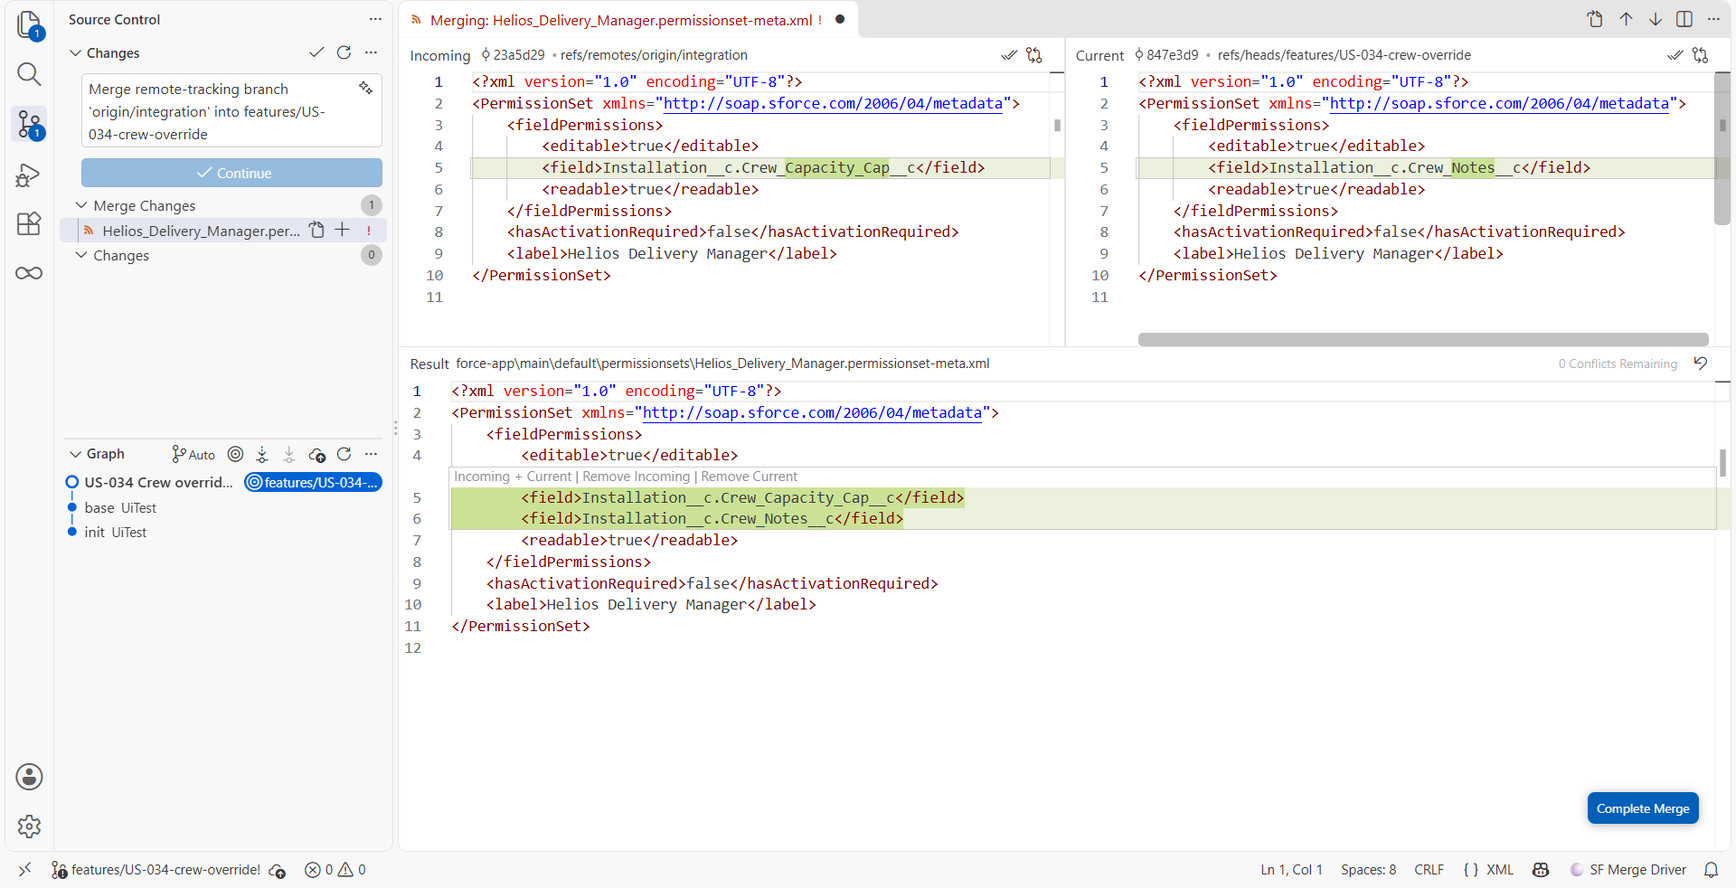
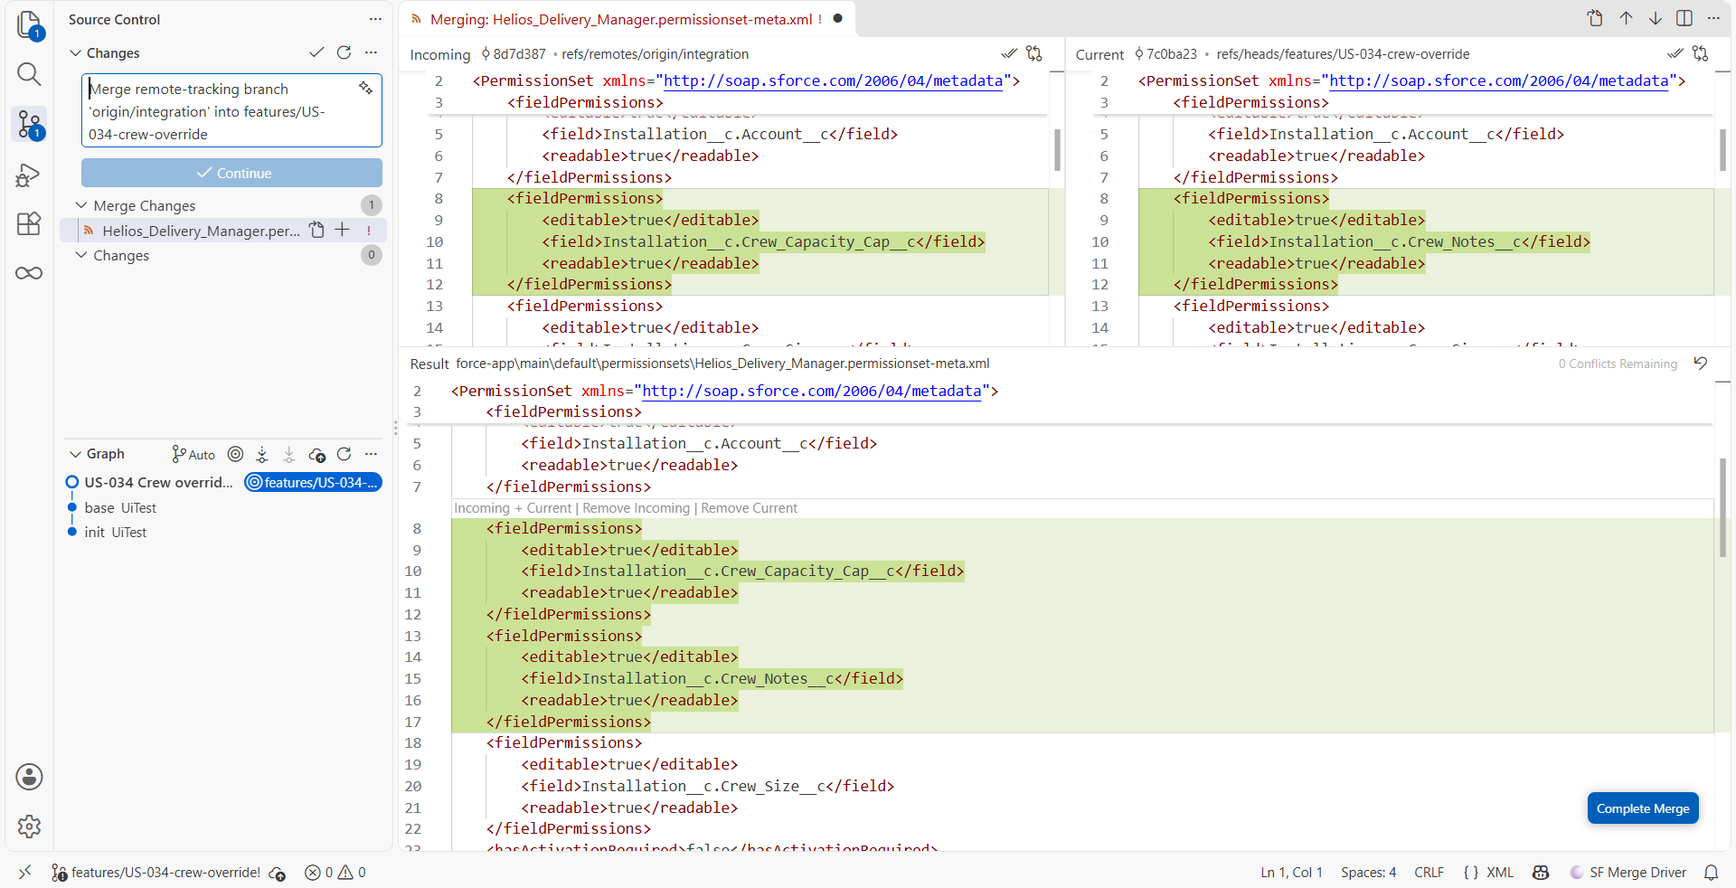
fix: what the learners' discussions found (2026-10-26) (#304)
* fix: what the learners' discussions found (2026-10-26)

* fix(labs): check the SF Merge Driver is off before Labs 2.7 and 3.10

diff --git a/labs/fr/level-2-contributor-advanced/2-7-resolve-a-git-merge-conflict.md b/labs/fr/level-2-contributor-advanced/2-7-resolve-a-git-merge-conflict.md
@@ -5,7 +5,7 @@ description: "Une collègue a mergé en premier sur le même flow et le même pe
 level: 2
 lab: 7
 lang: fr
-source_rev: "b1467f03acb9c4e1c409f231225075b21f2d8555"
+source_rev: "7bc30991204d61ef34021d66c5575d254d6032e6"
 screenshots:
   - annotated/salesforce/flow-builder-assign-crew
   - annotated/salesforce/flow-builder-assign-crew-full
@@ -49,6 +49,9 @@ flow et le même permission set que vous. Elle a mergé ce matin. Pas vous.
 
 - [ ] [Lab 2.6](2-6-permission-sets-and-profiles.md) terminé et mergé
 - [ ] Rien en attente dans le panneau **Source Control** auquel vous teniez encore
+- [ ] **SF Merge Driver**, en bas à droite de VS Code, affiche un rond gris : le driver est éteint.
+      Si le rond est vert, cliquez dessus pour l'éteindre, sinon il résout les conflits dont parle
+      ce lab avant que vous ne les voyiez
 
 ## Les étapes
 
@@ -268,31 +271,22 @@ Celui-ci est mécanique, et vous pouvez trancher sans comprendre le XML : les de
 place. Mariia a accordé un champ, vous en avez accordé un autre, et un permission set en contient
 autant qu'il en faut.
 
-#### À faire : faire deux blocs du résultat
+#### À faire : lire le résultat, puis terminer le merge
 
-1. Lisez maintenant le **Result** **(1)** avant toute chose
+1. Lisez le **Result** **(1)** avant toute chose : il contient deux blocs `<fieldPermissions>`
+   complets, le `Crew_Capacity_Cap__c` de Mariia en premier et votre `Crew_Notes__c` en second
 
    ![L'éditeur de merge après avoir accepté les deux côtés, avec Complete Merge](../../_assets/annotated/vscode/git-merge-editor-accepted--result.png)
 
-2. Tapez-le dans le volet **Result** : après la première ligne `<field>`, ajoutez les quatre lignes
-   qui ferment le premier bloc et ouvrent le second. Copiez-les d'ici : on ne demande à personne
-   d'écrire du XML de mémoire
+2. Cliquez sur **Complete Merge** **(2)**
 
-   ```xml title="À modifier dans le fichier"
-           <readable>true</readable>
-       </fieldPermissions>
-       <fieldPermissions>
-           <editable>true</editable>
-   ```
+#### Pourquoi le lire
 
-3. Cliquez ensuite sur **Complete Merge** **(2)**
-
-#### Pourquoi deux blocs
-
-L'éditeur a gardé les deux lignes, et les a mises dans le même bloc : un seul `<fieldPermissions>`
-avec deux lignes `<field>`, ce que Salesforce refuse. Git merge des lignes, pas des permissions. Vous
-voulez deux blocs complets, un par champ, le `Crew_Capacity_Cap__c` de Mariia en premier et votre
-`Crew_Notes__c` en second. La section sous le capot ci-dessous montre le résultat que vous visez.
+Chacun de vous a ajouté un bloc entier, et l'éditeur de merge compare chaque côté à la version dont
+vous êtes partis tous les deux : garder les deux donne donc deux blocs, sans rien taper. Lisez-le
+quand même : un bloc `<fieldPermissions>` nomme un seul champ, et Salesforce refuse un bloc avec deux
+lignes `<field>`. Si votre **Result** ressemble à cela, **En cas de problème** à la fin de ce lab
+donne la correction.
 
 Prendre les deux est la bonne réponse pour presque tous les conflits de permission set. Choisir
 un côté est la façon dont la permission d'un collègue disparaît en silence, sans que personne s'en
@@ -300,8 +294,8 @@ aperçoive avant que quelqu'un ne voie plus un champ.
 
 <details markdown="1"><summary>Sous le capot : à quoi ressemblait vraiment le conflit</summary>
 
-Git entre en conflit sur des lignes, pas sur du XML : les marqueurs ont donc atterri à l'intérieur
-d'un bloc plutôt qu'autour de deux :
+Git entre en conflit sur des lignes, pas sur du XML : les marqueurs qu'il écrit dans le fichier ont
+donc atterri à l'intérieur d'un bloc plutôt qu'autour de deux :
 
 ```xml title="Résultat"
     <fieldPermissions>
@@ -315,10 +309,11 @@ d'un bloc plutôt qu'autour de deux :
     </fieldPermissions>
 ```
 
-Une fois les quatre lignes ajoutées, le résultat contient deux blocs complets, par ordre
-alphabétique, ce qui est de toute façon la façon dont Salesforce les écrit :
+L'éditeur de merge ne vous montre pas ces marqueurs. Il compare chaque côté à la version dont vous
+êtes partis tous les deux, trouve un bloc entier ajouté de chaque côté, et garder les deux conserve
+les deux blocs, par ordre alphabétique, ce qui est de toute façon la façon dont Salesforce les écrit :
 
-```xml title="À modifier dans le fichier"
+```xml title="Résultat"
     <fieldPermissions>
         <editable>true</editable>
         <field>Installation__c.Crew_Capacity_Cap__c</field>
@@ -477,6 +472,18 @@ les éléments de même nature : toutes les affectations, puis toutes les décis
 déposé un élément conservé entre deux blocs d'une autre nature, remontez-le auprès des siens. L'ordre
 à l'intérieur de chaque groupe n'a pas d'importance, le groupement si.
 
+**Le Result du permission set montre un seul bloc avec deux lignes `<field>`.**
+Avant de cliquer sur **Complete Merge**, tapez dans le volet **Result** : après la première ligne
+`<field>`, ajoutez les quatre lignes qui ferment le premier bloc et ouvrent le second. Copiez-les
+d'ici :
+
+```xml title="À modifier dans le fichier"
+        <readable>true</readable>
+    </fieldPermissions>
+    <fieldPermissions>
+        <editable>true</editable>
+```
+
 **`Element field is duplicated at this location in type PermissionSetFieldPermissions`.**
 Vous avez gardé les deux côtés à l'intérieur d'une seule autorisation au lieu de garder les deux
 autorisations. Un bloc `<fieldPermissions>` nomme un champ : la correction est deux blocs, pas un
@@ -485,6 +492,13 @@ bloc avec deux lignes `<field>`.
 **Le flow refuse de se déployer après le merge : "duplicate element name".**
 Vous avez gardé les deux côtés d'un élément qui ne peut exister qu'une fois. Les noms d'éléments de
 flow sont uniques. Renommez-en un ou supprimez-en un.
+
+**Merge Changes ne liste pas le permission set, ou aucun fichier.**
+Le SF Merge Driver les a mergés pour vous : son élément en bas à droite de VS Code affiche un rond
+vert. Ouvrez le permission set et vérifiez qu'il contient les deux blocs de l'étape 5. Si le flow a
+été mergé aussi, ouvrez-le dans Flow Builder et vérifiez-le par rapport à l'étape 6 : le driver
+merge le XML, il ne décide pas quelle règle l'emporte. Cliquez ensuite sur l'élément pour éteindre
+le driver, avant que le [Lab 3.10](../level-3-release-manager/3-10-promote-a-subset-with-promotion-branches.md) n'ait besoin des conflits lui aussi.
 
 **Vous avez perdu votre modification entièrement.**
 Vous avez accepté le côté de Mariia sur tout le fichier. Dans le panneau **Source Control**, menu

diff --git a/labs/en/level-2-contributor-advanced/2-7-resolve-a-git-merge-conflict.md b/labs/en/level-2-contributor-advanced/2-7-resolve-a-git-merge-conflict.md
@@ -48,6 +48,9 @@ flow and the same permission set as you. She merged this morning. You did not.
 
 - [ ] [Lab 2.6](2-6-permission-sets-and-profiles.md) finished and merged
 - [ ] Nothing waiting in the **Source Control** panel that you still care about
+- [ ] **SF Merge Driver**, at the bottom right of VS Code, shows a grey circle: the driver is off.
+      If the circle is green, click it to turn the driver off, or it solves the conflicts this lab
+      is about before you see them
 
 ## Steps
 
@@ -258,37 +261,29 @@ This one is mechanical, and you can decide it without understanding the XML: bot
 belong. Mariia granted one field, you granted another, and a permission set holds as many as it
 needs.
 
-#### Do: make two blocks of the result
+#### Do: read the result, then complete the merge
 
-1. Now read the **Result** **(1)** before anything else
+1. Read the **Result** **(1)** before anything else: it holds two complete `<fieldPermissions>`
+   blocks, Mariia's `Crew_Capacity_Cap__c` first and your `Crew_Notes__c` second
 
    ![The merge editor after both sides were accepted, with Complete Merge](../../_assets/annotated/vscode/git-merge-editor-accepted--result.png)
 
-2. Type it in the **Result** pane: after the first `<field>` line, add the four lines that close the
-   first block and open the second. Copy them from here: nobody is asked to write XML from memory
+2. Click **Complete Merge** **(2)**
 
-   ```xml title="Edit this file"
-           <readable>true</readable>
-       </fieldPermissions>
-       <fieldPermissions>
-           <editable>true</editable>
-   ```
+#### Why read it
 
-3. Then click **Complete Merge** **(2)**
-
-#### Why two blocks
-
-The editor kept both lines, and put them in the same block: one `<fieldPermissions>` with two
-`<field>` lines, which Salesforce refuses. Git merges lines, not permissions. You want two complete
-blocks, one per field, Mariia's `Crew_Capacity_Cap__c` first and your `Crew_Notes__c` second. The
-under the hood section below shows the result you are aiming at.
+Each of you added a whole block, and the merge editor compares each side with the version you both
+started from, so taking both gives two blocks with nothing to type. Read it anyway: one
+`<fieldPermissions>` block names one field, and Salesforce refuses a block with two `<field>` lines.
+If your **Result** looks like that, **If it goes wrong** at the end of this lab has the fix.
 
 Take both is the right answer for almost every permission set conflict. Choosing one side is how
 a teammate's permission quietly disappears, and nobody notices until somebody cannot see a field.
 
 <details markdown="1"><summary>Under the hood: what the conflict actually looked like</summary>
 
-Git conflicts on lines, not on XML, so the markers landed inside one block rather than around two:
+Git conflicts on lines, not on XML, so the markers it writes in the file landed inside one block
+rather than around two:
 
 ```xml title="Output"
     <fieldPermissions>
@@ -302,10 +297,11 @@ Git conflicts on lines, not on XML, so the markers landed inside one block rathe
     </fieldPermissions>
 ```
 
-Once you added the four lines, the result holds two complete blocks, in alphabetical order, which is
-how Salesforce writes them anyway:
+The merge editor does not show you those markers. It compares each side with the version you both
+started from, finds a whole block added on each side, and taking both keeps the two blocks, in
+alphabetical order, which is how Salesforce writes them anyway:
 
-```xml title="Edit this file"
+```xml title="Output"
     <fieldPermissions>
         <editable>true</editable>
         <field>Installation__c.Crew_Capacity_Cap__c</field>
@@ -457,6 +453,17 @@ the same kind together: all the assignments, then all the decisions. If your mer
 element between two blocks of another kind, move it back up next to its own kind. The order inside
 each group does not matter, the grouping does.
 
+**The Result of the permission set shows one block with two `<field>` lines.**
+Before you click **Complete Merge**, type in the **Result** pane: after the first `<field>` line, add
+the four lines that close the first block and open the second. Copy them from here:
+
+```xml title="Edit this file"
+        <readable>true</readable>
+    </fieldPermissions>
+    <fieldPermissions>
+        <editable>true</editable>
+```
+
 **`Element field is duplicated at this location in type PermissionSetFieldPermissions`.**
 You kept both sides inside a single grant instead of keeping both grants. One `<fieldPermissions>`
 block names one field: the fix is two blocks, not one block with two `<field>` lines.
@@ -464,6 +471,13 @@ block names one field: the fix is two blocks, not one block with two `<field>` l
 **The flow will not deploy after the merge: "duplicate element name".**
 You kept both sides of an element that can only exist once. Flow element names are unique. Rename or
 remove one.
+
+**Merge Changes lists no permission set, or no file at all.**
+The SF Merge Driver merged them for you: its item at the bottom right of VS Code shows a green
+circle. Open the permission set and check that it holds the two blocks of step 5. If the flow merged
+too, open it in Flow Builder and check it against step 6: the driver merges the XML, it does not
+decide which rule wins. Then click the item to turn the driver off, before [Lab 3.10](../level-3-release-manager/3-10-promote-a-subset-with-promotion-branches.md) needs the
+conflicts too.
 
 **You lost your change entirely.**
 You accepted Mariia's side on the whole file. In the **Source Control** panel, the **...** menu >

diff --git a/labs/fr/level-3-release-manager/3-10-promote-a-subset-with-promotion-branches.md b/labs/fr/level-3-release-manager/3-10-promote-a-subset-with-promotion-branches.md
@@ -5,7 +5,7 @@ description: "Transportez trois User Stories approuvées sur cinq de uat vers pr
 level: 3
 lab: 10
 lang: fr
-source_rev: "73533e1d3e22c99792e216cba82395b32b7aa2f9"
+source_rev: "4d39cb6d018606d8238135e3d8bf9f722d0c97c5"
 screenshots:
   - annotated/vscode/welcome-custom-menu-3
   - annotated/vscode/pipeline-config-danger--promotion-branches
@@ -74,6 +74,9 @@ telle qu'elle est, US-058 et US-060 comprises.
 - [ ] `enablePromotionBranches` et `allowedPromotionSteps` publiés au
       [Lab 3.1](3-1-configure-the-pipeline-up-to-production.md), et remontés jusqu'à `preprod` par les promotions des Labs 3.5 et 3.6
 - [ ] Rien en attente dans le panneau **Source Control** qui vous tienne encore à cœur
+- [ ] **SF Merge Driver**, en bas à droite de VS Code, affiche un rond gris : le driver est éteint.
+      Si le rond est vert, cliquez dessus pour l'éteindre, sinon il résout les conflits de
+      l'étape 4 avant que vous ne les voyiez
 
 ## Les étapes
 
@@ -852,11 +855,13 @@ et c'est volontaire.
 valeur par défaut que sfdx-hardis accepte d'inventer : entre quelles branches un release manager peut
 promouvoir est une décision sur votre pipeline.
 
-**Le cherry-pick d'US-059 n'est pas entré en conflit.**
-Quelque chose l'a résolu pour vous, en général le plugin `sf-git-merge-driver` s'il est installé sur
-votre machine. Ouvrez l'onglet **Files changed** de la Pull Request et cherchez `Warranty_Years__c`
+**Le cherry-pick d'US-059 n'est pas entré en conflit, ou sur un seul fichier.**
+Quelque chose l'a résolu pour vous, en général le SF Merge Driver : son élément en bas à droite de
+VS Code affiche un rond vert, et un clic l'éteint. Ouvrez l'onglet **Files changed** de la Pull Request et cherchez `Warranty_Years__c`
 dans la présentation de page et le permission set. S'il a voyagé, le déploiement échoue sur un champ
-que `preprod` n'a pas : retirez-le sur la promotion branch comme l'étape 6 le fait, et poussez.
+que `preprod` n'a pas : retirez-le sur la promotion branch comme l'étape 6 le fait, et poussez. S'il
+n'a pas voyagé, la promotion est juste telle quelle, et le retrofit de l'étape 9 peut quand même
+s'arrêter sur les deux fichiers.
 
 **Il n'y a pas de liens Accept au-dessus du bloc de conflit.**
 Le fichier est ouvert en aperçu ou le bloc est hors de vue. Cliquez dans le fichier, allez à la

diff --git a/labs/en/level-3-release-manager/3-10-promote-a-subset-with-promotion-branches.md b/labs/en/level-3-release-manager/3-10-promote-a-subset-with-promotion-branches.md
@@ -71,6 +71,9 @@ included.
 - [ ] `enablePromotionBranches` and `allowedPromotionSteps` published in
       [Lab 3.1](3-1-configure-the-pipeline-up-to-production.md), and carried up to `preprod` by the promotions of Labs 3.5 and 3.6
 - [ ] Nothing waiting in the **Source Control** panel that you still care about
+- [ ] **SF Merge Driver**, at the bottom right of VS Code, shows a grey circle: the driver is off.
+      If the circle is green, click it to turn the driver off, or it solves the conflicts of step 4
+      before you see them
 
 ## Steps
 
@@ -823,11 +826,12 @@ branch the pipeline does not merge into opens nothing, on purpose.
 sfdx-hardis is willing to invent: which branches a release manager may promote between is a decision
 about your pipeline.
 
-**The cherry-pick of US-059 did not conflict.**
-Something solved it for you, usually the `sf-git-merge-driver` plugin if it is installed on your
-machine. Open the **Files changed** tab of the Pull Request and look for `Warranty_Years__c` in the
+**The cherry-pick of US-059 did not conflict, or conflicted on one file only.**
+Something solved it for you, usually the SF Merge Driver: its item at the bottom right of VS Code
+shows a green circle, and a click turns it off. Open the **Files changed** tab of the Pull Request and look for `Warranty_Years__c` in the
 layout and the permission set. If it travelled, the deployment fails on a field `preprod` does not
-have: take it out on the promotion branch the way step 6 does, and push.
+have: take it out on the promotion branch the way step 6 does, and push. If it did not, the
+promotion is right as it is, and the retrofit of step 9 can still stop on both files.
 
 **There are no Accept links above the conflict block.**
 The file is open in a preview or the block is out of view. Click into the file, scroll to the

diff --git a/labs/fr/level-2-contributor-advanced/2-4-ship-reference-data-and-a-batch-with-deployment-actions.md b/labs/fr/level-2-contributor-advanced/2-4-ship-reference-data-and-a-batch-with-deployment-actions.md
@@ -5,7 +5,7 @@ description: "Un déploiement vert n'est pas une fonctionnalité qui marche. Liv
 level: 2
 lab: 4
 lang: fr
-source_rev: "f6d43148b9aebd99be359ad671d3c904ecb6156d"
+source_rev: "66f31b641bbfc947fa2abdbef474bd96d9319815"
 screenshots:
   - annotated/vscode/sidebar-commands-custom-menu-2--lab-records
   - annotated/salesforce/crew-capacity-records
@@ -629,6 +629,14 @@ L'utilisateur de CI ne peut pas écrire les champs : l'autorisation de l'étape 
 `Helios_Delivery_Manager`, ou n'a jamais atteint le repository. Un déploiement n'accorde de lui-même
 aucune permission de champ à qui que ce soit. Ajoutez-les dans `helios-dev`, récupérez le permission
 set, et publiez à nouveau.
+
+**Create my lab records s'arrête sur `External_Id__c`, ou dit que les enregistrements n'ont pas pu être créés.**
+Les douze enregistrements sont rapprochés sur `External_Id__c` : ce champ a besoin de la case
+**External Id** de l'étape 1. Dans `helios-dev`, ouvrez le champ dans Setup, cliquez sur **Edit**,
+cochez **External Id**, enregistrez, et cliquez de nouveau sur **Create my lab records**. Récupérez
+ensuite le champ avec le Metadata Retriever, pour que votre branche porte aussi la case. Si la case
+était déjà cochée, lisez les lignes grises au-dessus du message : c'est l'erreur Salesforce, et un
+champ absent de l'autorisation **Helios Delivery Manager** de l'étape 1 est l'autre cause habituelle.
 
 **L'import crée des doublons à chaque exécution.**
 L'opération est `Insert` et non `Upsert`, ou l'identifiant externe n'est pas renseigné. Ouvrez le

diff --git a/labs/fr/level-3-release-manager/3-11-capstone-run-a-weekly-release-cycle.md b/labs/fr/level-3-release-manager/3-11-capstone-run-a-weekly-release-cycle.md
@@ -5,7 +5,7 @@ description: "Menez une semaine entière de release manager Salesforce sans pas-
 level: 3
 lab: 11
 lang: fr
-source_rev: "7aa43daa4e278e646fc65e8df0c1e9282b41b083"
+source_rev: "cdce29eb8691d591a48144d320b44eae9f40edaf"
 screenshots:
   - annotated/web/github-star-vscode-sfdx-hardis
   - annotated/vscode/welcome-custom-menu-3
@@ -232,6 +232,12 @@ Dev Hub d'où créer des scratch orgs. Si vous les gardez, supprimez les secrets
 certificats JWT de votre fork (votre copie personnelle du repository du cours sur GitHub, par
 exemple `github.com/my-username/sfdx-hardis-training`) sont de vrais identifiants vers de vraies
 orgs.
+Le job nocturne de capacité des équipes du [Lab 2.4](../level-2-contributor-advanced/2-4-ship-reference-data-and-a-batch-with-deployment-actions.md) continue de tourner dans chaque org où il a été
+planifié, et vous envoie un résumé par email chaque nuit.
+**Training: Level 3** > **Clean up a training org** l'arrête, et retire l'app Helios et ses données
+de l'org choisie. Pour garder Helios et
+ne perdre que l'email, ouvrez **Setup** > **Scheduled Jobs** dans l'org et cliquez sur **Del** sur la
+ligne du job, `Helios crew capacity nightly` si vous avez gardé le nom du lab.
 
 Trois : gardez les promotion branches comme exception. Le [Lab 3.10](3-10-promote-a-subset-with-promotion-branches.md) vous en a fait
 assembler une, et cette semaine a remis la pipeline en place. Sur un vrai projet la pression va dans

diff --git a/labs/en/level-3-release-manager/3-11-capstone-run-a-weekly-release-cycle.md b/labs/en/level-3-release-manager/3-11-capstone-run-a-weekly-release-cycle.md
@@ -219,6 +219,11 @@ after 30 days. The two Developer Edition orgs holding a fictional solar company 
 place to try things, and `helios-prod` stays a Dev Hub you can create scratch orgs from. If you keep
 them, delete the `SFDX_AUTH_URL_INTEGRATION` and `SFDX_AUTH_URL_UAT` secrets, which [Lab 3.1](3-1-configure-the-pipeline-up-to-production.md) left in
 place, and remember the JWT certificates in your fork (your own copy of the course repository on GitHub, for example `github.com/my-username/sfdx-hardis-training`) are real credentials to real orgs.
+The nightly crew capacity job of [Lab 2.4](../level-2-contributor-advanced/2-4-ship-reference-data-and-a-batch-with-deployment-actions.md) keeps running in every org it was scheduled in, and
+emails you a summary each night. **Training: Level 3** > **Clean up a training org** stops it, and
+removes the Helios app and its data from the org you pick. To keep Helios and lose only the email,
+open **Setup** > **Scheduled Jobs** in the org and click **Del** on the row of the job, `Helios crew capacity nightly` if you kept the
+name of the lab.
 
 Three: keep promotion branches as the exception. [Lab 3.10](3-10-promote-a-subset-with-promotion-branches.md) had you assemble one, and this
 week put the pipeline back. On a real project the pressure runs the other way: the first subset is

diff --git a/labs/en/level-2-contributor-advanced/2-4-ship-reference-data-and-a-batch-with-deployment-actions.md b/labs/en/level-2-contributor-advanced/2-4-ship-reference-data-and-a-batch-with-deployment-actions.md
@@ -612,6 +612,14 @@ The CI user cannot write the fields: the grant of step 1 is missing from `Helios
 or never reached the repository. A deployment grants no field permissions to anybody by itself. Add
 them in `helios-dev`, retrieve the permission set, and publish again.
 
+**Create my lab records stops on `External_Id__c`, or says the records could not be created.**
+The twelve records are matched on `External_Id__c`, so that field needs the **External Id** box of
+step 1. In `helios-dev`, open the field in Setup, click **Edit**, tick **External Id**, save, and
+click **Create my lab records** again. Then retrieve the field with the Metadata Retriever, so that
+your branch carries the box too. If the box was already ticked, read the grey lines above the
+message: they are the Salesforce error, and a field missing from the **Helios Delivery Manager**
+grant of step 1 is the other usual cause.
+
 **The import creates duplicates every run.**
 The operation is `Insert`, not `Upsert`, or the external id is not set. Open the workspace in the
 **Data Workbench** panel and correct both there.

diff --git a/CHANGELOG.md b/CHANGELOG.md
@@ -3,6 +3,14 @@
 What changed in the course, for learners and trainers. The course has no versions: each section is
 a day, newest first, and a change goes under the date of the day it is made.
 
+## 2026-10-26
+
+- Lab 2.7: taking both sides of the permission set conflict gives two complete blocks with nothing to type, and the merge editor pictures show the real Helios file.
+- Lab 2.4: **Create my lab records** says when `External_Id__c` is not marked External Id or a field cannot be edited, instead of blaming the profile.
+- Lab 3.10: troubleshooting for a cherry-pick of US-059 that conflicts on one file only.
+- Labs 2.7 and 3.10: check that the SF Merge Driver is off before you start, since it solves the conflicts these labs teach.
+- Lab 3.11: how to stop the nightly crew capacity email in the orgs you keep.
+
 ## 2026-10-24
 
 - Guinea Run no longer invites you to send your scores again a few minutes after a send, which the Hall of Fame refused as unverified. The game says when you can send again, and a send that comes too soon gets an answer that says so.
